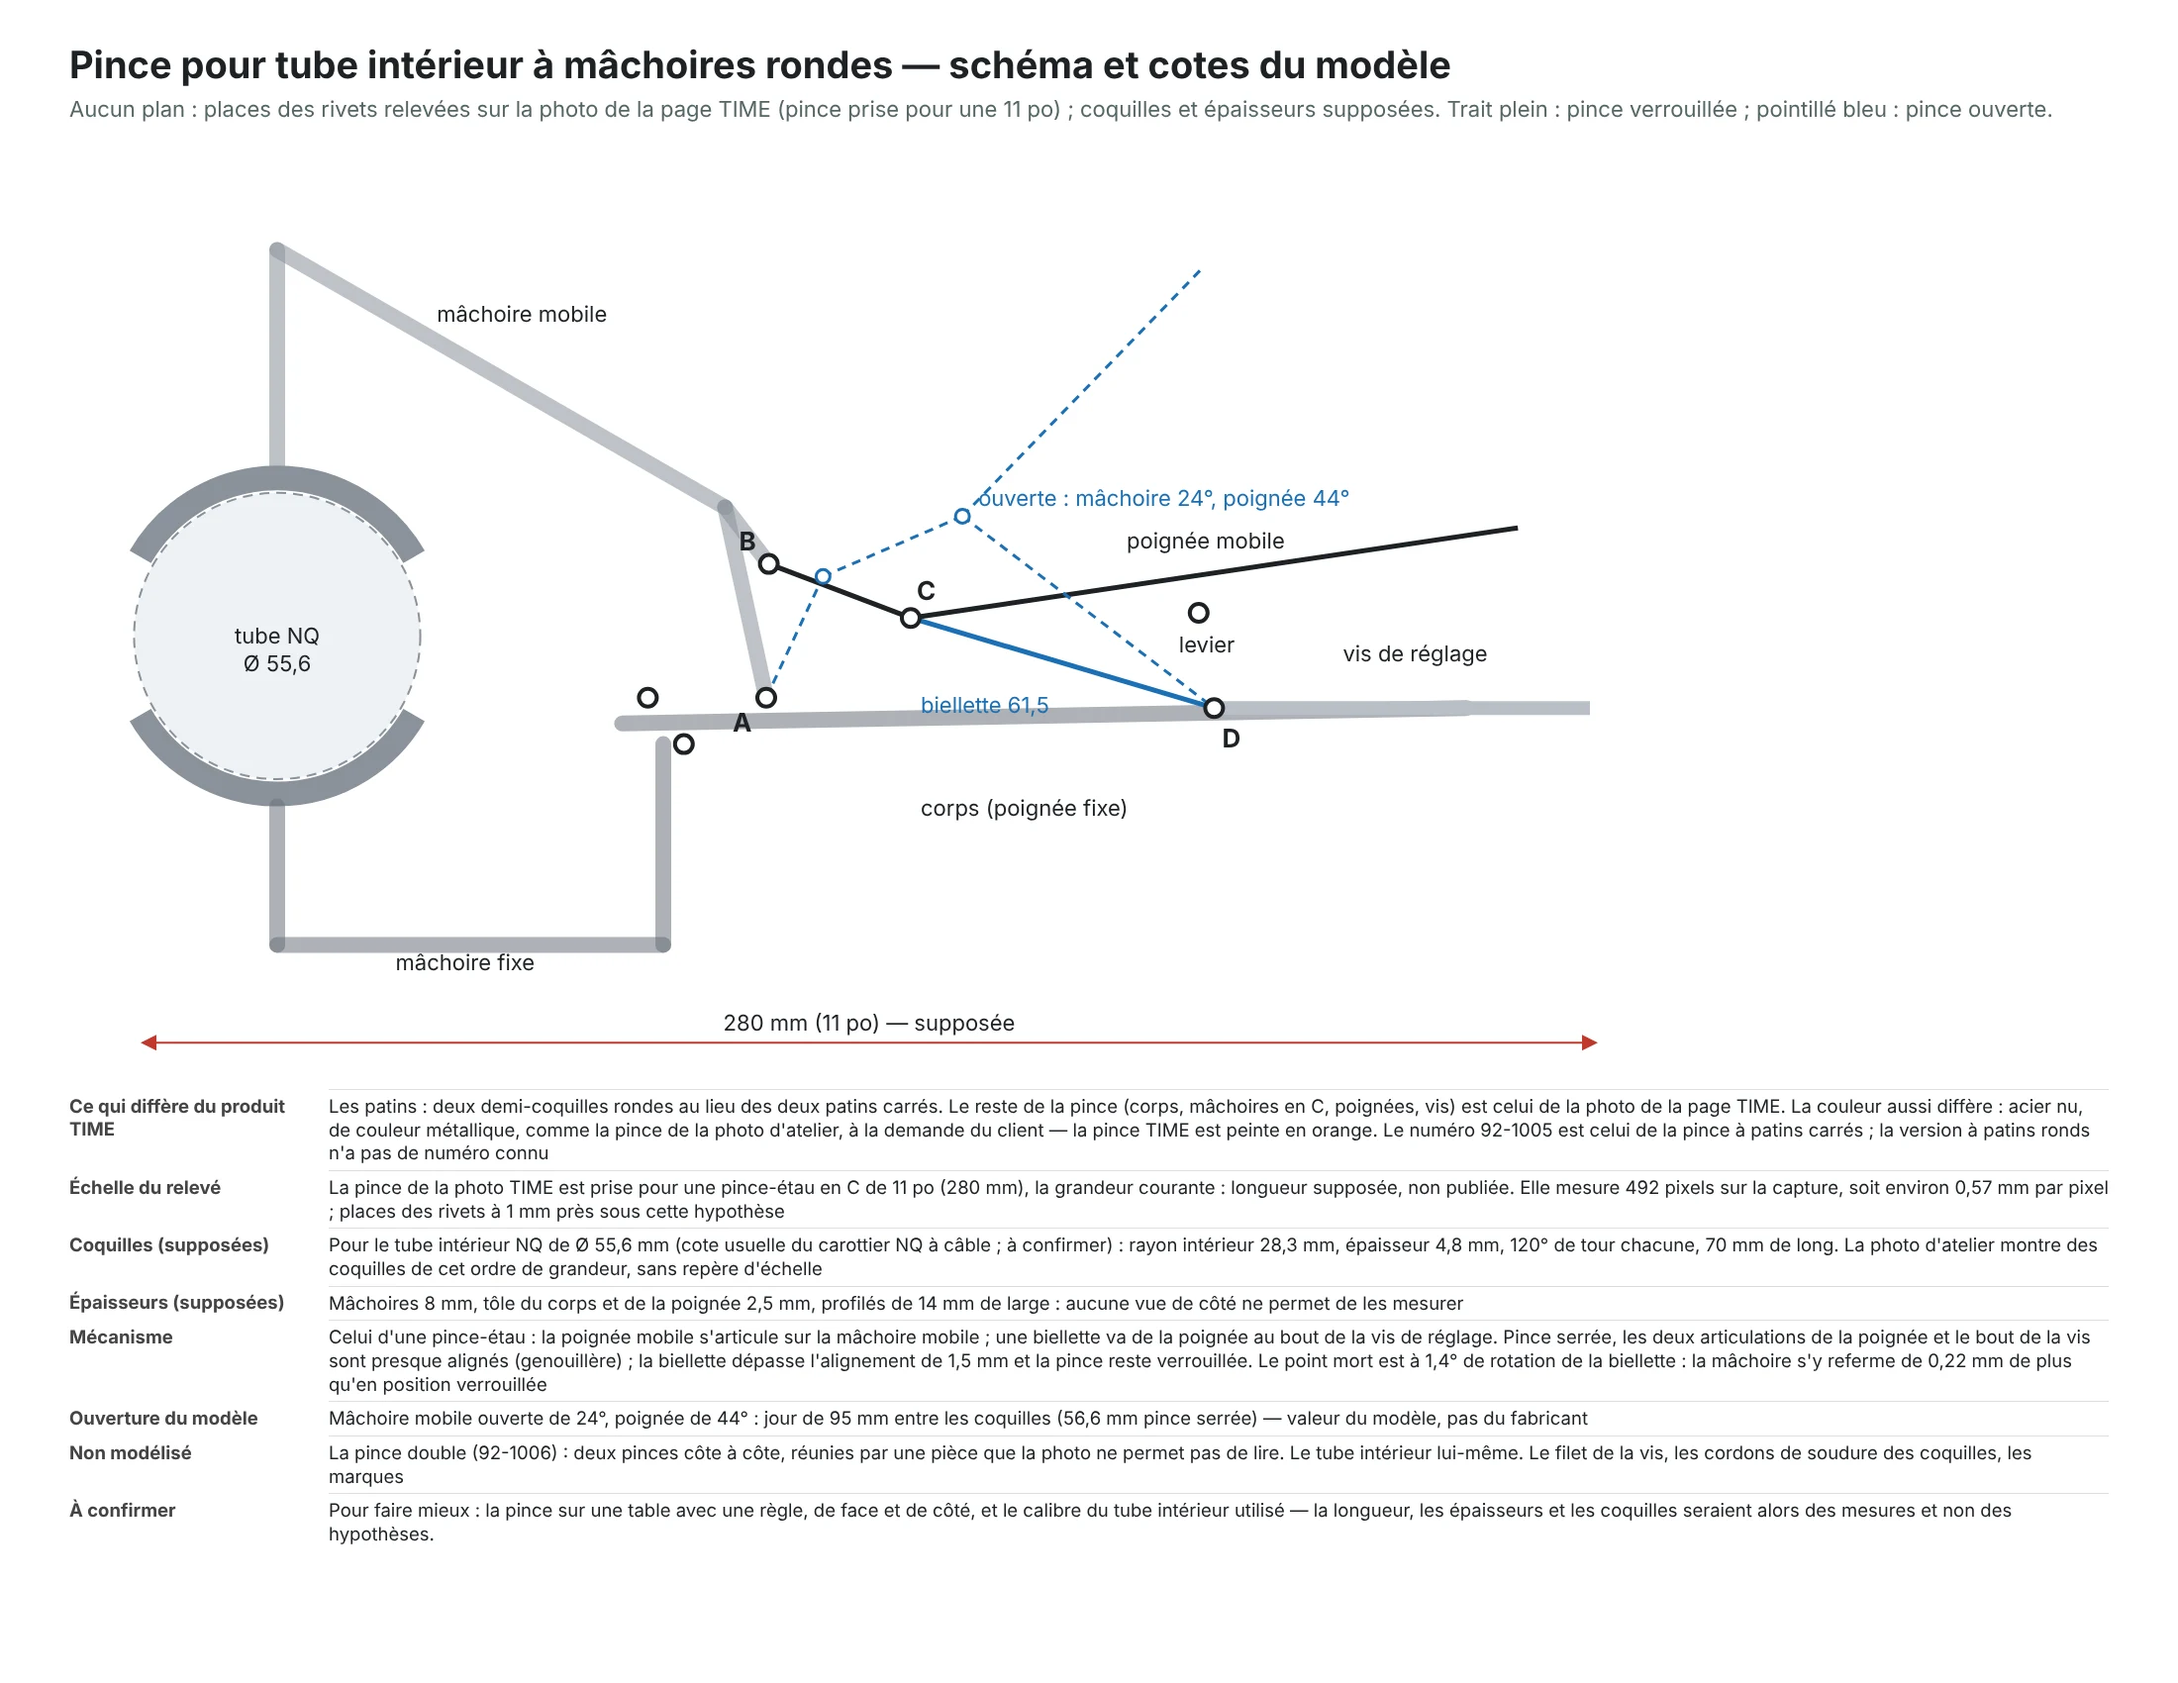
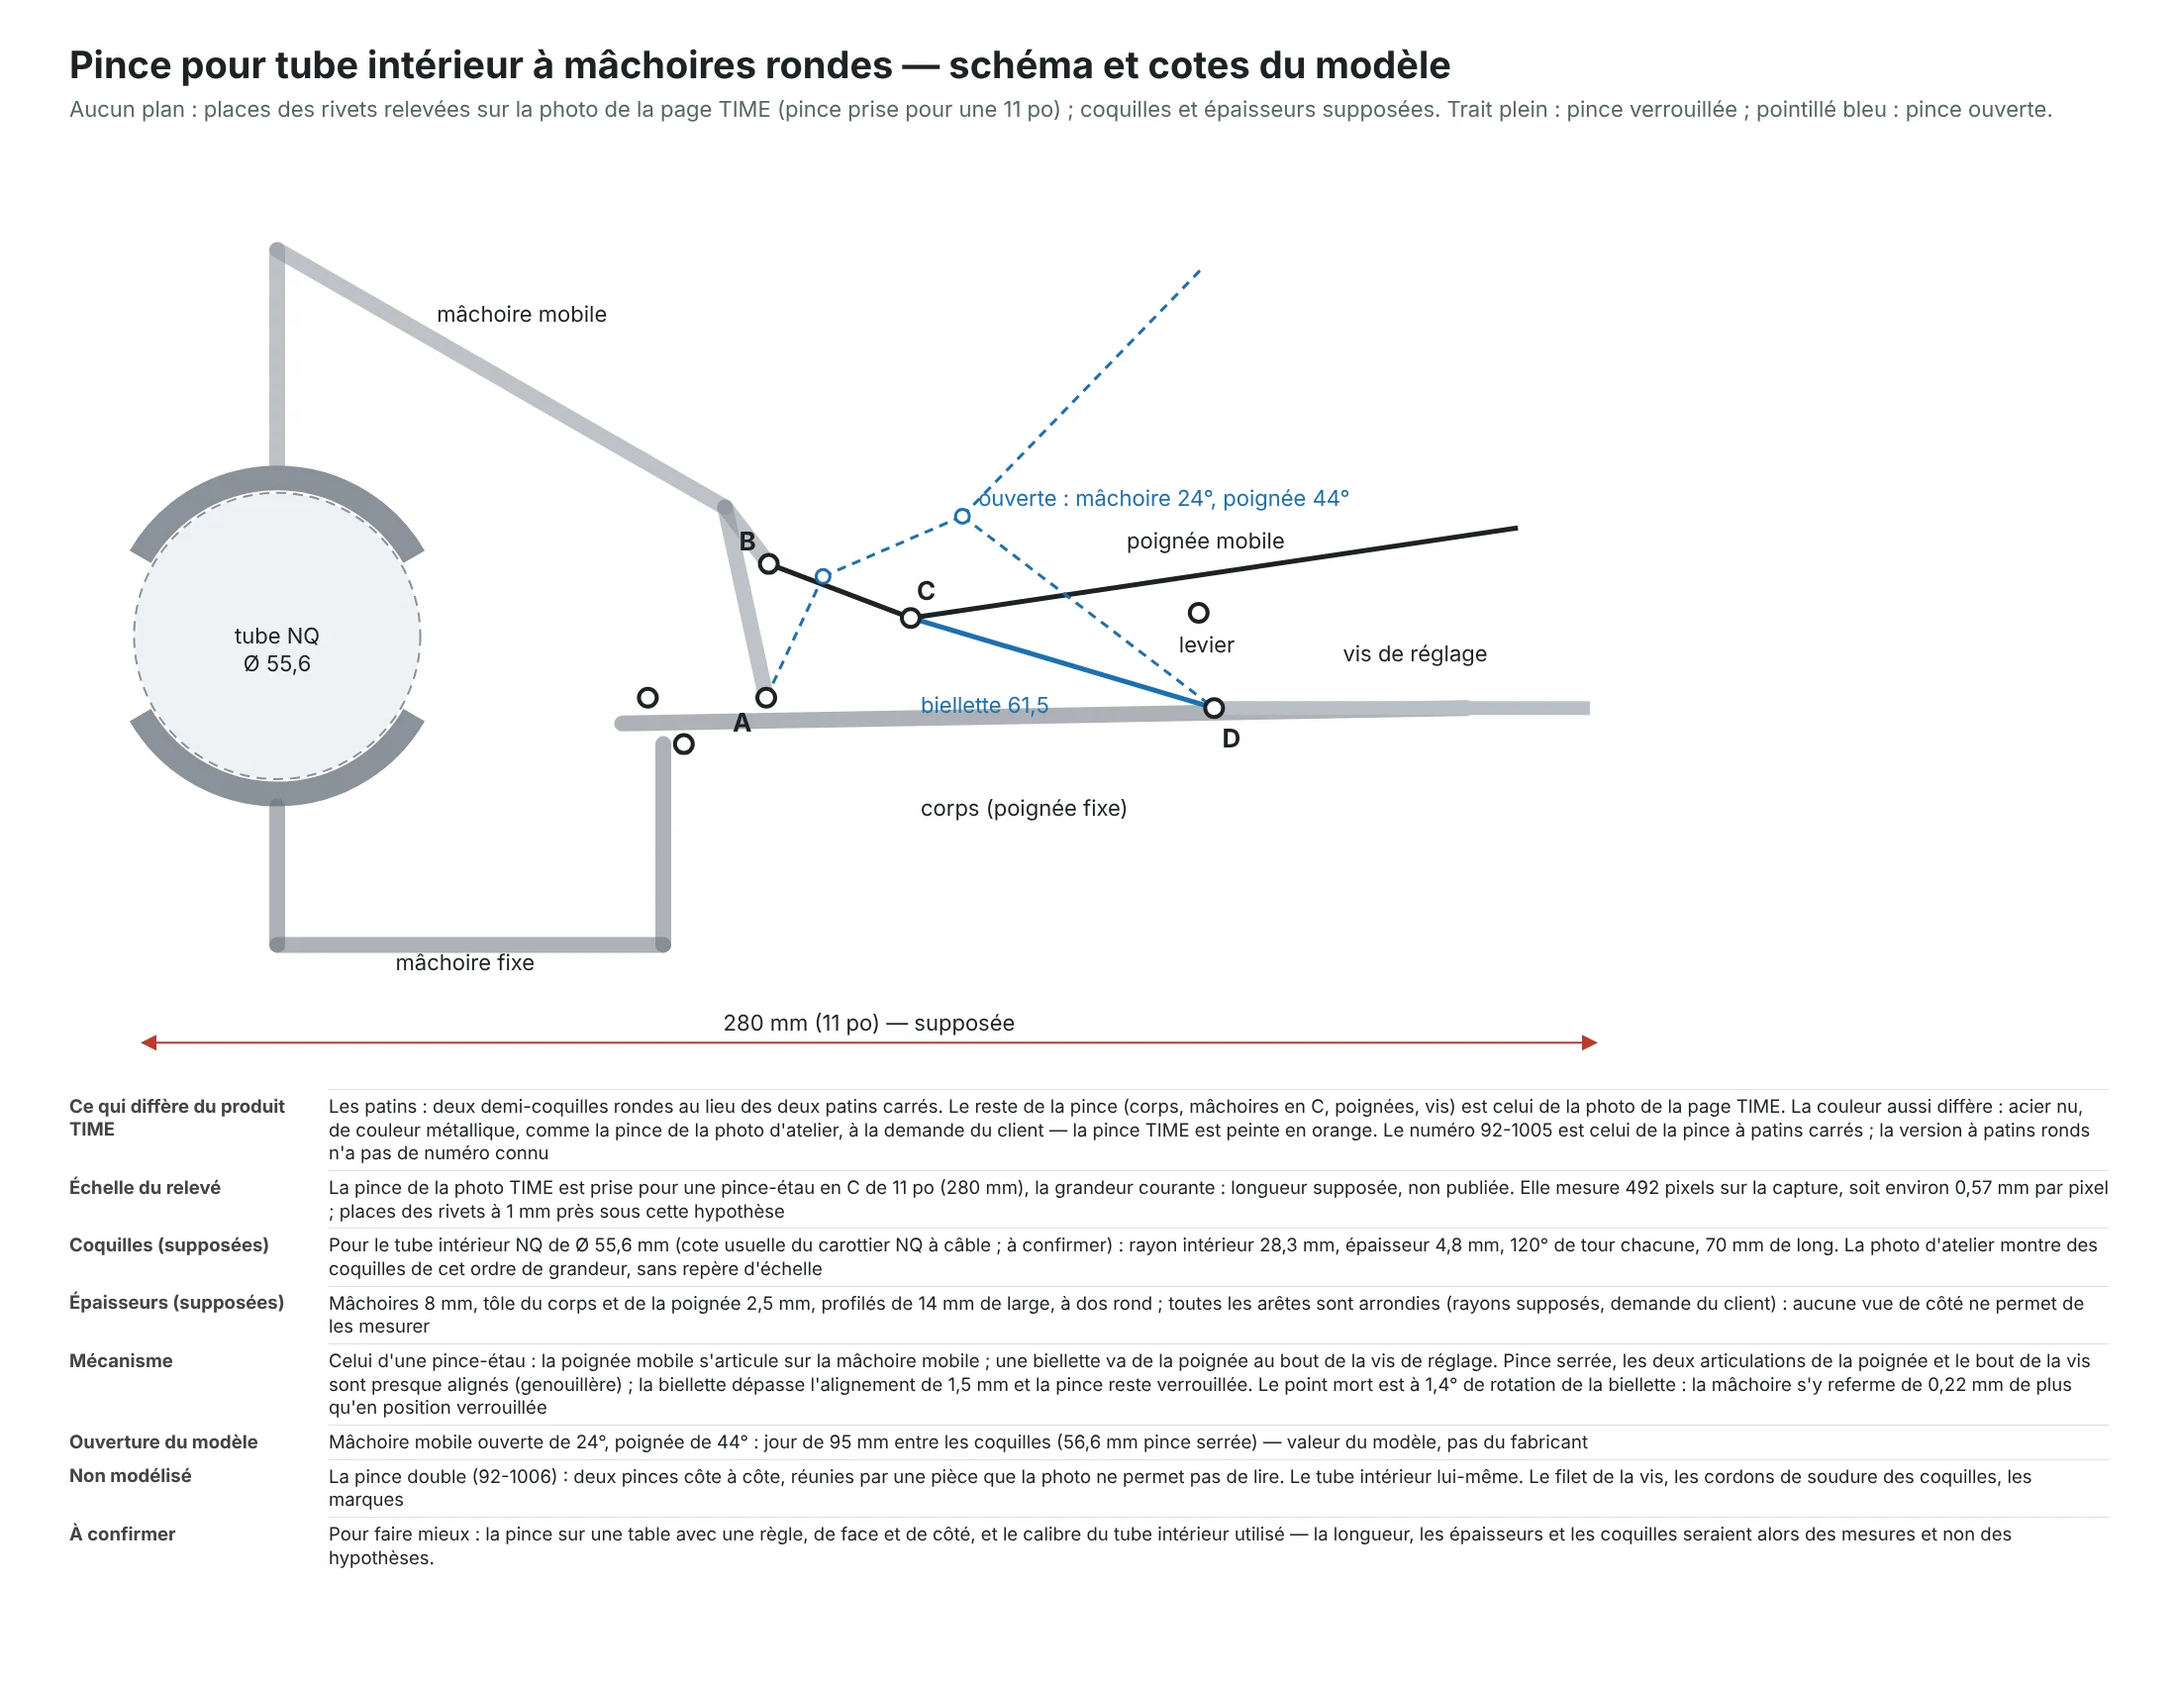
Pince pour tube intérieur : arêtes arrondies, poignées en profilé à dos rond (demande du client)
Corps et poignée mobile balayés en U à dos rond, bout de la poignée en
cuiller ; arêtes des mâchoires, des coquilles et des tôles arrondies. Fiche,
page P03 et vignette mises à jour.

Claude-Session: https://claude.ai/code/session_015N4WsqrNgzWFL8axJkBYkL

Changed region(s): [[0.1545, 0.7482, 0.9582, 0.9353], [0.0309, 0.8418, 0.1236, 0.9353], [0.0309, 0.7794, 0.0927, 0.8106]]

diff --git a/src/models/pince-tube-interieur/index.js b/src/models/pince-tube-interieur/index.js
@@ -169,18 +169,72 @@ function ruban(axe, largeur, cote = 0, bande = 0) {
   return [...d, ...bout(n - 1, n - 2), ...g.reverse(), ...bout(0, 1)];
 }
 
-/** Plaque découpée : contour [x, y] (mm) entre z0 et z1, arêtes cassées ; trous ronds [x, y, r]. */
-function plaque(contour, z0, z1, matiere, trous = []) {
+/** Plaque découpée : contour [x, y] (mm) entre z0 et z1, arêtes arrondies (rayon `arrondi`, au plus 30 % de l'épaisseur) ; trous ronds [x, y, r]. */
+function plaque(contour, z0, z1, matiere, trous = [], arrondi = 1) {
   const shape = new THREE.Shape(contour.map(([x, y]) => new THREE.Vector2(x * MM, y * MM)));
   for (const [x, y, r] of trous) {
     const p = new THREE.Path();
     p.absarc(x * MM, y * MM, r * MM, 0, 2 * Math.PI, true);
     shape.holes.push(p);
   }
-  const t = (z1 - z0) * MM, b = Math.min(t * 0.16, 0.0008);
-  const geo = new THREE.ExtrudeGeometry(shape, { depth: t - 2 * b, bevelEnabled: true, bevelSize: b, bevelThickness: b, bevelOffset: -b, bevelSegments: 1, curveSegments: 20 });
+  const t = (z1 - z0) * MM, b = Math.min(t * 0.3, arrondi * MM);
+  const geo = new THREE.ExtrudeGeometry(shape, { depth: t - 2 * b, bevelEnabled: true, bevelSize: b, bevelThickness: b, bevelOffset: -b, bevelSegments: 3, curveSegments: 20 });
   geo.translate(0, 0, z0 * MM + b);
-  return new THREE.Mesh(creaseNormals(geo), typeof matiere === 'string' ? mat(matiere) : matiere);
+  const lisse = creaseNormals(geo, 50 * RAD);
+  lisse.userData.edgeAngle = 60; // pas de contours sur les arrondis
+  return new THREE.Mesh(lisse, typeof matiere === 'string' ? mat(matiere) : matiere);
+}
+
+/**
+ * Profilé embouti en U à dos rond, balayé le long d'une ligne du plan de
+ * l'outil : axe [x, y] (mm), hauteur(i) dans le plan, dos du côté gauche de la
+ * marche (cote = 1) ou droit (−1), ouvert de l'autre. echelle(i) rétrécit la
+ * section (bout en cuiller). Bouts fermés.
+ */
+function profile(axe, hauteur, cote, matiere, { rayon = 5, echelle = () => 1 } = {}) {
+  const W = EP.large / 2, t = EP.tole, n = axe.length, pos = [], idx = [];
+  // Section (u vers le dos, z en travers) : contour extérieur puis intérieur, sens constant.
+  const section = (h) => {
+    const moitie = (w, haut, r) => {
+      const pts = [[-h / 2, -w]];
+      for (let k = 0; k <= 6; k++) { const a = Math.PI - (k / 6) * (Math.PI / 2); pts.push([haut - r + r * Math.sin(a), -w + r + r * Math.cos(a)]); }
+      for (let k = 0; k <= 6; k++) { const a = Math.PI / 2 - (k / 6) * (Math.PI / 2); pts.push([haut - r + r * Math.sin(a), w - r + r * Math.cos(a)]); }
+      pts.push([-h / 2, w]);
+      return pts;
+    };
+    const r = Math.min(rayon, h / 2 - 0.5, W);
+    return [...moitie(W, h / 2, r), ...moitie(W - t, h / 2 - t, Math.max(0.6, r - t)).reverse()];
+  };
+  let m = 0;
+  for (let i = 0; i < n; i++) {
+    const a = axe[Math.max(0, i - 1)], b = axe[Math.min(n - 1, i + 1)], l = Math.hypot(b[0] - a[0], b[1] - a[1]);
+    const nx = (-(b[1] - a[1]) / l) * cote, ny = ((b[0] - a[0]) / l) * cote, e = echelle(i);
+    const sec = section(hauteur(i));
+    m = sec.length;
+    for (const [u, z] of sec) pos.push((axe[i][0] + nx * u * e) * MM, (axe[i][1] + ny * u * e) * MM, z * e * MM);
+  }
+  for (let i = 0; i < n - 1; i++) for (let j = 0; j < m; j++) {
+    const a = i * m + j, b = i * m + ((j + 1) % m), c = a + m, d = b + m;
+    idx.push(a, b, d, a, d, c);
+  }
+  const faces = THREE.ShapeUtils.triangulateShape(section(hauteur(0)).map(([u, z]) => new THREE.Vector2(u, z)), []);
+  for (const f of faces) { idx.push(f[0], f[1], f[2]); idx.push((n - 1) * m + f[0], (n - 1) * m + f[2], (n - 1) * m + f[1]); }
+  let geo = new THREE.BufferGeometry();
+  geo.setAttribute('position', new THREE.Float32BufferAttribute(pos, 3));
+  geo.setIndex(idx);
+  geo = geo.toNonIndexed();
+  // Faces vers l'extérieur : flancs et bouts orientés chacun par son volume signé.
+  const p = geo.attributes.position.array;
+  const retourner = (i0, i1) => {
+    let vol = 0;
+    for (let i = i0; i < i1; i += 9) vol += p[i] * (p[i + 4] * p[i + 8] - p[i + 5] * p[i + 7]) - p[i + 1] * (p[i + 3] * p[i + 8] - p[i + 5] * p[i + 6]) + p[i + 2] * (p[i + 3] * p[i + 7] - p[i + 4] * p[i + 6]);
+    return vol;
+  };
+  const tourne = (i0, i1) => { for (let i = i0; i < i1; i += 9) for (let k = 0; k < 3; k++) { const v = p[i + 3 + k]; p[i + 3 + k] = p[i + 6 + k]; p[i + 6 + k] = v; } };
+  if (retourner(0, p.length) < 0) tourne(0, p.length);
+  geo = creaseNormals(geo, 50 * RAD);
+  geo.userData.edgeAngle = 75;
+  return new THREE.Mesh(geo, matiere);
 }
 
 // Acier nu de la pince (demande du client : garder la couleur métallique de sa photo d'atelier, pas l'orange de la page TIME), créé une fois.
@@ -202,15 +256,22 @@ function acier() {
 const JEU = RIVET.d / 2 + 0.2; // rayon des trous de rivet
 const zTole = [[-EP.large / 2, -EP.large / 2 + EP.tole], [EP.large / 2 - EP.tole, EP.large / 2]];
 
-/** Repère 1 : corps (poignée fixe) en tôle emboutie, ouvert vers la poignée mobile, bague taraudée au bout. */
+// Corps : dessus et dessous du profilé selon x, en arrière des mâchoires.
+const JOINT_CORPS = 128;
+const dessusCorps = (x) => (x < 136 ? 11 - (x - 128) * 0.06 : x < 156 ? 10.5 - 4.5 * (((x - 136) / 20) ** 2 * (3 - 2 * ((x - 136) / 20))) : 6);
+const dessousCorps = (x) => (x < 185 ? -16.3 + 8.3 * ((x - 128) / 57) : -8);
+
+/** Repère 1 : corps (poignée fixe) embouti en U à dos rond, ouvert vers la poignée mobile, bague taraudée au bout. */
 function corps(S) {
   const g = new THREE.Group(), m = acier();
-  const flanc = arrondir([[88, 11, 3], [88, -19, 4], [120, -17, 12], [185, -8, 30], [256, -8, 2], [256, 6, 2], [152, 6, 25], [134, 11, 8]]);
+  // Devant : deux joues plates qui tiennent les mâchoires (le dos s'arrête là, où sort la mâchoire fixe).
+  const flanc = arrondir([[88, 11, 4], [88, -19, 5], [112, -17.6, 6], [JOINT_CORPS, dessousCorps(JOINT_CORPS)], [JOINT_CORPS, dessusCorps(JOINT_CORPS)]]);
   const trous = [[...A, JEU], ...FIXES.map((p) => [...p, JEU])];
   for (const [z0, z1] of zTole) g.add(plaque(flanc, z0, z1, m, trous));
-  // Dos du profilé, le long du bord opposé à la poignée mobile ; ouvert devant, où sort la mâchoire fixe.
-  const dos = [[119, -17.1], [150, -12.6], [185, -8], [256, -8], [256, -8 + EP.tole], [185, -8 + EP.tole], [150, -12.6 + EP.tole], [119, -17.1 + EP.tole]];
-  g.add(plaque(dos, -EP.large / 2 + EP.tole, EP.large / 2 - EP.tole, m));
+  // Derrière : la poignée, à dos rond.
+  const axe = [], haut = [];
+  for (let x = JOINT_CORPS; x <= 256.01; x += 4) { axe.push([x, (dessusCorps(x) + dessousCorps(x)) / 2]); haut.push(dessusCorps(x) - dessousCorps(x)); }
+  g.add(profile(axe, (i) => haut[i], -1, m, { rayon: 6 }));
   g.add(S.cyl(VIS.bague * MM, 14 * MM, m, { axis: 'x', pos: [251 * MM, VIS.y * MM, 0] }));
   return g;
 }
@@ -219,9 +280,9 @@ function corps(S) {
 function coquille(cote) {
   const g = new THREE.Group(), demi = COQUILLE.angle / 2, a0 = cote * 90 - demi, a1 = cote * 90 + demi;
   const contour = [...arc(TUBE.x, TUBE.y, R_EXT, a0, a1, 28), ...arc(TUBE.x, TUBE.y, R_INT, a1, a0, 28)];
-  g.add(plaque(contour, -COQUILLE.long / 2, COQUILLE.long / 2, acier()));
+  g.add(plaque(contour, -COQUILLE.long / 2, COQUILLE.long / 2, acier(), [], 1.4));
   // Intérieur plus clair : acier poli par le frottement du tube.
-  const r = R_INT - 0.12, h = COQUILLE.long / 2 - 1, n = 28, pos = [], nor = [], idx = [];
+  const r = R_INT - 0.12, h = COQUILLE.long / 2 - 1.8, n = 28, pos = [], nor = [], idx = [];
   for (let i = 0; i <= n; i++) {
     const a = (a0 + 1.5 + ((a1 - a0 - 3) * i) / n) * RAD, c = Math.cos(a), s = Math.sin(a);
     for (const z of [-h, h]) { pos.push((TUBE.x + r * c) * MM, (TUBE.y + r * s) * MM, z * MM); nor.push(-c, -s, 0); }
@@ -245,7 +306,7 @@ function machoireFixe() {
   ]);
   // Dégagement rond autour du moyeu de la mâchoire mobile.
   contour.push(...arc(A[0], A[1], 10.5, 262, 145.2, 14));
-  return plaque(contour, -EP.machoire / 2, EP.machoire / 2, acier(), FIXES.map((p) => [...p, JEU]));
+  return plaque(contour, -EP.machoire / 2, EP.machoire / 2, acier(), FIXES.map((p) => [...p, JEU]), 2.2);
 }
 
 /** Repère 3 : mâchoire mobile en C — moyeu percé pour son pivot (A), pour la poignée (B) et pour le ressort. */
@@ -256,7 +317,7 @@ function machoireMobile() {
     [TUBE.x + h, 68.5, 5], [108, 28.5, 6], [109.5, 12, 3],
   ]);
   contour.push(...arc(A[0], A[1], 9, 140, 330, 16));
-  return plaque(contour, -EP.machoire / 2, EP.machoire / 2, acier(), [[...A, JEU], [...B0, JEU], [...RESSORT.machoire, 1.4]]);
+  return plaque(contour, -EP.machoire / 2, EP.machoire / 2, acier(), [[...A, JEU], [...B0, JEU], [...RESSORT.machoire, 1.4]], 2.2);
 }
 
 // Ligne médiane de la poignée mobile, de son articulation sur la mâchoire jusqu'au bout relevé.
@@ -266,16 +327,20 @@ const largeurPoignee = (i) => {
   return u < 0.3 ? 16 - 6 * (u / 0.3) : u > 0.8 ? 10 + 3 * ((u - 0.8) / 0.2) : 10;
 };
 
-/** Repère 4 : poignée mobile en tôle emboutie, ouverte vers le corps ; elle chevauche la mâchoire mobile. */
+/** Repère 4 : poignée mobile emboutie en U à dos rond, ouverte vers le corps ; sa chape plate chevauche la mâchoire mobile ; bout en cuiller. */
 function poignee() {
   const g = new THREE.Group(), m = acier();
-  const flanc = ruban(AXE_POIGNEE, largeurPoignee);
-  const trous = [[...B0, JEU], [...C0, JEU], [...LEVIER, JEU]];
-  for (const [z0, z1] of zTole) g.add(plaque(flanc, z0, z1, m, trous));
-  // Dos du profilé, du côté opposé au corps, en arrière de la mâchoire.
   const i0 = AXE_POIGNEE.findIndex((p) => p[0] > 140);
+  // Chape : deux joues plates, rondes autour de l'articulation, jusqu'au départ du dos.
+  const devant = AXE_POIGNEE.slice(0, i0 + 1), joue = ruban(devant, largeurPoignee);
+  const k = devant.length; // ruban : bord droit (k points), bout rond (7), bord gauche (k), bout rond (7) ; le bout du côté du dos reste droit
+  const contour = [...joue.slice(0, k), ...joue.slice(k + 7)];
+  for (const [z0, z1] of zTole) g.add(plaque(contour, z0, z1, m, [[...B0, JEU]]));
   const axe = AXE_POIGNEE.slice(i0);
-  g.add(plaque(ruban(axe, (i) => largeurPoignee(i + i0), 1, EP.tole), -EP.large / 2 + EP.tole, EP.large / 2 - EP.tole, m));
+  // Bout en cuiller : la section rétrécit en rond sur les 12 derniers millimètres.
+  const fin = axe[axe.length - 1][0];
+  const echelle = (i) => { const u = Math.max(0, 1 - (fin - axe[i][0]) / 12); return Math.max(0.3, Math.sqrt(1 - u * u * 0.92)); };
+  g.add(profile(axe, (i) => largeurPoignee(i + i0), 1, m, { rayon: 4.5, echelle }));
   return g;
 }
 
